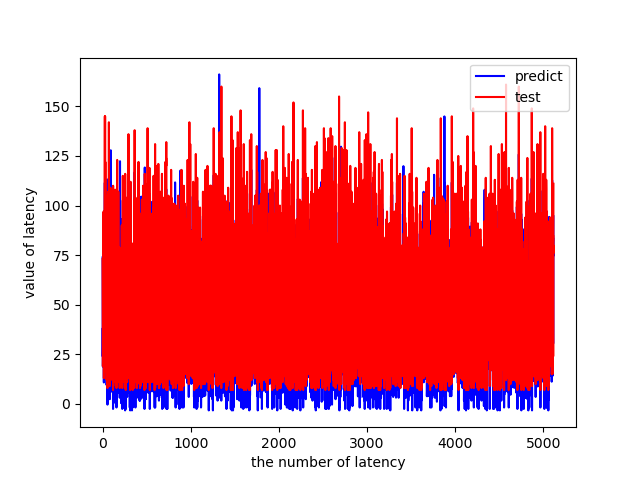
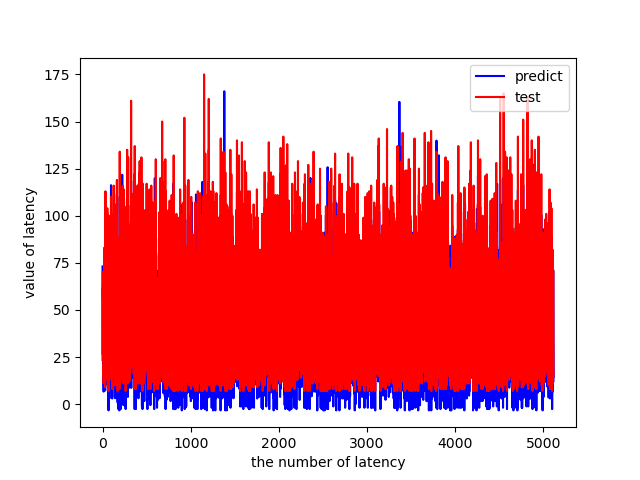
fit

diff --git a/DataFitPretreatment_2.py b/DataFitPretreatment_2.py
@@ -1,0 +1,102 @@
+'''
+fit the <hop_count, max_buffer, min_buffer, ave_buffer, ...> with each flit latency
+'''
+if __name__ == "__main__":
+    # m*n 2D mesh topology
+    n = 8
+    m = 8
+    vc_num = 4
+    vc_size = 8
+
+    folder = "..\Data\data20200611_uniform_vc_4_size_8\\"
+
+    # extract node injecting to hotspot node
+    filename = folder + "total_flit.txt"
+    totalfile = open(filename, 'r')
+    totalflit = []
+    for eachtotalline in totalfile:
+        if eachtotalline.split('[')[1].split()[0] != eachtotalline.split('[')[1].split()[1]:
+            totalflit.append(eachtotalline.split('{')[1].split()[0])
+    # print(totalflit)
+    totalfile.close()
+
+    # extract latency
+    '''
+    [flitid-latency, ...]
+    '''
+    filename = folder + "end_filt.txt"
+    endflitfile = open(filename, 'r')
+    endinfo = []
+    for eachendflit in endflitfile:
+        curtempflit = eachendflit.split('{')[1].split()[0]
+        # packet latency = atime - ctime
+        curlatency = int(eachendflit.split('[')[1].split()[2]) - int(eachendflit.split('[')[1].split()[1])
+        endinfo.append(curtempflit + "-" + str(curlatency))
+    # print(endinfo)
+    endflitfile.close()
+
+    # extract vc occupancy
+    '''
+    2>,0[0000[0000[0000[0000,1[0000[0000[0000[0000
+    '''
+    filename = folder + "occupancy_set.txt"
+    bufferfile = open(filename, 'r')
+    bufferinfo = []
+    for bufferline in bufferfile:
+        bufferinfo.append(bufferline)
+    bufferfile.close()
+    # for i in range(len(bufferinfo)):
+    #     print(bufferinfo[i])
+
+    filename = folder + "pretreatment_flitpath.txt"
+    flitpathfile = open(filename, 'r')
+    # 0:3_4_0=7_12_0=10_20_0=13_28_0=16_36.
+    filename = folder + "fitdata_2.txt"
+    fitfile = open(filename, 'w')
+    for eachline in flitpathfile:
+        if eachline.find("=", 0, len(eachline) - 1) != -1:
+            eachline = eachline.split('.')[0]
+            curflit = eachline.split(':')[0]
+            hopcount = eachline.count("=", 0, len(eachline) - 1)
+            # extract average local age
+            tempage = 0
+            temppath = eachline.split(':')[1]  # 3_4_0=7_12_0=10_20_0=13_28_0=16_36.
+            for hop_i in range(hopcount):
+                tempage = tempage + int(temppath.split('=')[hop_i + 1].split('_')[0]) - int(
+                    temppath.split('=')[hop_i].split('_')[0])
+            average_age = round(tempage / hopcount, 2)
+            localage = average_age
+            # extract average vc occupancy
+            tempvcbuffer = 0
+            for hop_i in range(hopcount):
+                arrive_nextnode_time = int(temppath.split('=')[hop_i].split('_')[0]) + 1
+                nextnode = int(temppath.split('=')[hop_i + 1].split('_')[1])
+                curdirection = temppath.split('=')[hop_i].split('_')[2]
+                if curdirection == '0' or curdirection == '2':
+                    nextnode_inputunit = int(curdirection) + 1
+                elif curdirection == '1' or curdirection == '3':
+                    nextnode_inputunit = int(curdirection) - 1
+                else:
+                    print("ERROR: current direction error!")
+                    break
+                # 2>,0[0000[0000[0000[0000,1[0000[0000[0000[0000,2[0000[0000[0000[0000,
+                for eachbufferinfo in bufferinfo:
+                    if eachbufferinfo.split('>')[0] == str(arrive_nextnode_time):
+                        cur_router_occupancy = eachbufferinfo.split(',')[nextnode + 1]
+                        cur_input_occupancy = cur_router_occupancy.split('[')[nextnode_inputunit + 1]
+                        for vc_i in range(vc_num):
+                            tempvcbuffer = tempvcbuffer + int(cur_input_occupancy[vc_i])
+                        break
+            average_buffer_occupancy = round((tempvcbuffer / vc_num) / hopcount, 2)
+            cur_latency = ""
+            for lat_i in endinfo:
+                if lat_i.split('-')[0] == curflit:
+                    cur_latency = lat_i.split('-')[1]
+                    break
+            # print(curflit, cur_latency)
+            writefiledata = curflit + "," + str(hopcount) + "," + str(localage) + "," + str(
+                average_buffer_occupancy) + "," + cur_latency + "\n"
+            print("Write the " + curflit + " 's info!")
+            fitfile.write(writefiledata)
+    flitpathfile.close()
+    fitfile.close()

diff --git a/DataFit_2.py b/DataFit_2.py
@@ -1,0 +1,95 @@
+import pandas as pd
+import numpy as np
+import matplotlib.pyplot as plt
+
+from sklearn.model_selection import train_test_split, cross_val_score
+from sklearn.linear_model import Lasso, Ridge, LinearRegression as LR
+from sklearn.model_selection import GridSearchCV
+from sklearn.metrics import r2_score, explained_variance_score as EVS, mean_squared_error as MSE
+from sklearn.preprocessing import PolynomialFeatures
+
+# folder = "..\Data\data20200611_uniform_vc_4_size_8\\"
+folder = "..\Data\data20200622_hotspot_vc4,8_node{0,18,36,54}_irate_0.1\\"
+adv_data = pd.read_csv(folder + "fitdata.csv")
+x = adv_data[['hop', 'localage', 'vcoccu']]
+y = adv_data['latency']
+# print(x.shape)
+# print(x.head())
+# print(y.head())
+x_train, x_test, y_train, y_test = train_test_split(x, y, test_size=0.2, random_state=1)
+# print(x_train.shape)
+
+reg = LR().fit(x_train, y_train)
+yhat = reg.predict(x_test)
+# print(yhat)
+# 展示回归系数和截距
+print(reg.coef_)
+print(reg.intercept_)
+
+print("均方差：", end='')
+print(MSE(y_test, yhat))
+print("平均值误差相对于样本真实值平均值的比例：", end='')
+print(np.sqrt(MSE(y_test, yhat)) / y_test.mean())
+# print(-cross_val_score(reg, x, y, cv=5, scoring="neg_mean_squared_error"))
+print("可解释方差：", end='')
+print(cross_val_score(reg, x, y, cv=5, scoring="explained_variance").mean())
+print("r2 分数: ", cross_val_score(reg, x, y, cv=5, scoring="r2").mean(), r2_score(y_test, yhat),
+      reg.score(x_test, y_test))
+
+plt.plot(range(len(yhat)), yhat, 'b', label="predict")
+# 显示图像
+# plt.savefig("predict1.png")
+plt.show()
+
+plt.figure()
+plt.plot(range(len(yhat)), yhat, 'b', label="predict")
+plt.plot(range(len(yhat)), y_test, 'r', label="test")
+plt.legend(loc="upper right")  # 显示图中的标签
+plt.xlabel("the number of latency")
+plt.ylabel('value of latency')
+# plt.savefig("ROC1.png")
+plt.show()
+
+
+'''
+多元非线性回归！
+a^2, b^2, ab...
+本质还是线性回归
+'''
+print("非线性——数据预处理")
+po = PolynomialFeatures(degree=2, interaction_only=False, include_bias=False)
+x_poly = po.fit_transform(x)
+# print(pd.DataFrame(x_poly).head())
+x_poly = pd.DataFrame(x_poly, columns=['hop', 'localage', 'vcoccu', 'hop^2', 'hop_localage', 'hop_vcoccu', 'localage^2',
+                                       'localage_vcoccu', 'vcoccu^2'])
+print(x_poly.head())
+
+# train and predict
+x_train2, x_test2, y_train2, y_test2 = train_test_split(x_poly, y, test_size=0.2, random_state=1)
+reg2 = LR().fit(x_train2, y_train2)
+yhat2 = reg2.predict(x_test2)
+# print(yhat2)
+# 展示回归系数和截距
+print(reg2.coef_)
+print(reg2.intercept_)
+
+print("平均值误差相对于样本真实值平均值的比例：", end='')
+print(np.sqrt(MSE(y_test2, yhat2)) / y_test2.mean())
+print("可解释方差：", end='')
+print(cross_val_score(reg2, x_poly, y, cv=5, scoring="explained_variance").mean())
+print("r2 分数: ", cross_val_score(reg2, x_poly, y, cv=5, scoring="r2").mean(), r2_score(y_test2, yhat2))
+
+
+plt.plot(range(len(yhat2)), yhat2, 'b', label="predict")
+# 显示图像
+# plt.savefig("predict2.png")
+plt.show()
+
+plt.figure()
+plt.plot(range(len(yhat2)), yhat2, 'b', label="predict")
+plt.plot(range(len(yhat2)), y_test2, 'r', label="test")
+plt.legend(loc="upper right")  # 显示图中的标签
+plt.xlabel("the number of latency")
+plt.ylabel('value of latency')
+# plt.savefig("ROC2.png")
+plt.show()

diff --git a/DataFit.py b/DataFit.py
@@ -7,11 +7,11 @@ from sklearn.linear_model import LinearRegression
 '''
 多元线性拟合
 截距 -24.45309846203987 ,回归系数： [6.42743005 4.92081224 2.91350997]
-即：latency = 6.4 * hopcount + 4.92 * localage + 2.9 * vcoccupancy = 24.45
+即：latency = 6.4 * hopcount + 4.92 * localage + 2.9 * vcoccupancy - 24.45
 '''
 
 # 通过read_csv来读取我们的目的数据集
-folder = "..\Data\data20200611_uniform_vc_4_size_8\\"
+folder = "..\Data\data20200622_hotspot_vc4,8_node{0,18,36,54}_irate_0.1\\"
 adv_data = pd.read_csv(folder + "fitdata.csv")
 # 清洗不需要的数据
 new_adv_data = adv_data.iloc[:, 0:]
@@ -24,7 +24,7 @@ print(new_adv_data.describe())
 print(new_adv_data[new_adv_data.isnull() == True].count())
 
 new_adv_data.boxplot()
-plt.savefig("boxplot.png")
+# plt.savefig("boxplot.png")
 plt.show()
 ##相关系数矩阵 r(相关系数) = x和y的协方差/(x的标准差*y的标准差) == cov（x,y）/σx*σy
 # 相关系数0~0.3弱相关0.3~0.6中等程度相关0.6~1强相关
@@ -32,7 +32,7 @@ print(new_adv_data.corr())
 
 # 通过加入一个参数kind='reg'，seaborn可以添加一条最佳拟合直线和95%的置信带。
 sns.pairplot(new_adv_data, x_vars=['hop', 'localage', 'vcoccu'], y_vars='latency', size=7, aspect=0.8, kind='reg')
-plt.savefig("pairplot.png")
+# plt.savefig("pairplot.png")
 plt.show()
 
 X_train, X_test, Y_train, Y_test = train_test_split(new_adv_data.iloc[:, :3], new_adv_data.latency, train_size=.80)
@@ -62,7 +62,7 @@ print("最佳拟合线:截距", a, ",回归系数：", b)
 # y的总波动 = Σ(y实际值 - y平均值)^2
 # 有多少百分比的y波动没有被回归拟合线所描述 = SSE/总波动
 # 有多少百分比的y波动被回归线描述 = 1 - SSE/总波动 = 决定系数R平方
-# 对于决定系数R平方来说1） 回归线拟合程度：有多少百分比的y波动刻印有回归线来描述(x的波动变化)
+# 对于决定系数R平方来说 1） 回归线拟合程度：有多少百分比的y波动刻印有回归线来描述(x的波动变化)
 # 2）值大小：R平方越高，回归模型越精确(取值范围0~1)，1无误差，0无法完成拟合
 score = model.score(X_test, Y_test)
 
@@ -85,5 +85,5 @@ plt.plot(range(len(Y_pred)), Y_test, 'r', label="test")
 plt.legend(loc="upper right")  # 显示图中的标签
 plt.xlabel("the number of latency")
 plt.ylabel('value of latency')
-plt.savefig("ROC.png")
+# plt.savefig("ROC.png")
 plt.show()
